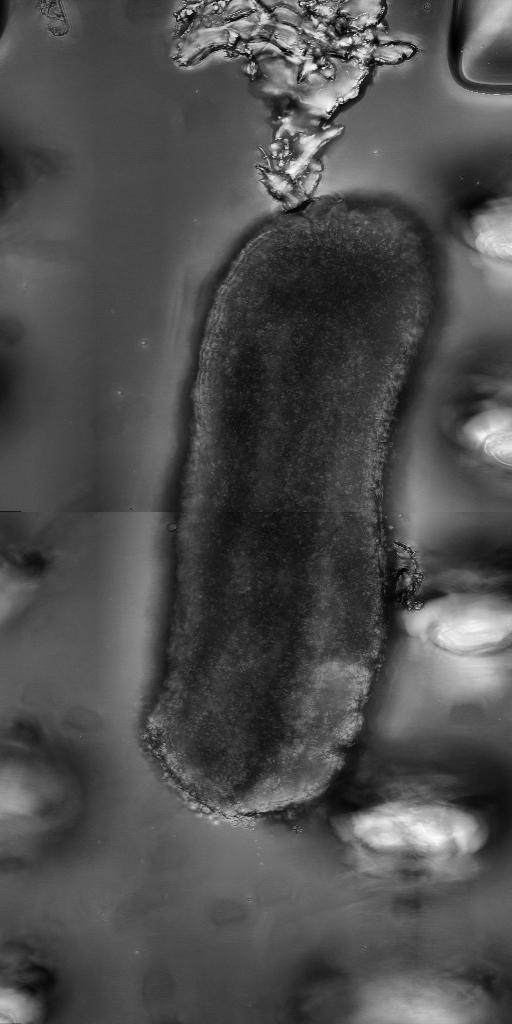
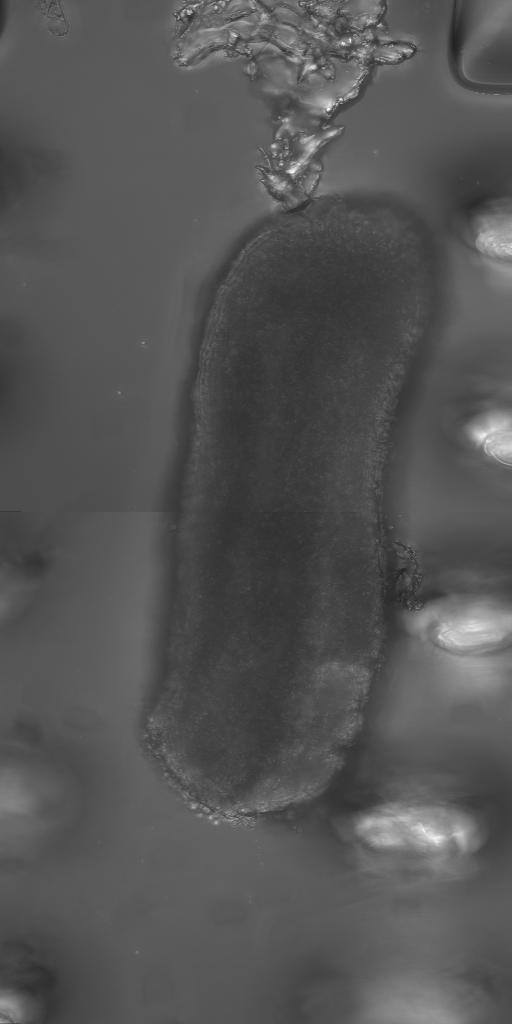
changes address review

diff --git a/tools/image_processing/yolo/adjust_save_images.py b/tools/image_processing/yolo/adjust_save_images.py
@@ -9,14 +9,14 @@ def apply_clahe(image):
     return exposure.equalize_adapthist(image, clip_limit=0.01)
 
 
-def process_images(input_folder, results_folder, clahe, convert_8bit):
+def process_images(input_folder, results_folder):
     # Create the main "results" directory
     results_folder = os.path.join(results_folder, 'jpegs')
     os.makedirs(results_folder, exist_ok=True)
 
     for root, _, files in os.walk(input_folder):
         for file in files:
-            if file.endswith('.tif'):
+            if file.endswith(('.tif', '.tiff')):
                 # Derive the relative path to maintain the directory structure
                 relative_path = os.path.relpath(root, input_folder)
                 target_folder = os.path.join(results_folder, relative_path)
@@ -24,32 +24,23 @@ def process_images(input_folder, results_folder, clahe, convert_8bit):
 
                 file_path = os.path.join(root, file)
                 image = imread(file_path)
-
-                # Apply CLAHE
-                if clahe:
-                    enhanced_image = apply_clahe(image)
-
-                # Convert to 8-bit
-                if convert_8bit:
-                    enhanced_image_8bit = img_as_ubyte(enhanced_image)
+                enhanced_image = img_as_ubyte(image)
 
                 # # Save as JPG
                 jpg_filename = os.path.splitext(file)[0] + '.jpg'
                 output_path = os.path.join(target_folder, jpg_filename)
-                imsave(output_path, enhanced_image_8bit)
+                imsave(output_path, enhanced_image)
 
 
 if __name__ == "__main__":
-    parser = argparse.ArgumentParser(description="Process .tif images with CLAHE and/or save as .jpg.")
+    parser = argparse.ArgumentParser(description="Process .tiff images with CLAHE and/or save as .jpg.")
     parser.add_argument("--input_folder",
                         type=str,
-                        help="Path to the input directory containing .tif files.")
+                        help="Path to the input directory containing .tiff files.")
     parser.add_argument("--results_folder",
                         type=str,
                         help="Path to the output directory where processed images will be saved.")
-    parser.add_argument("--clahe", action="store_true", help="Apply CLAHE to the images.")
-    parser.add_argument("--convert8bit", action="store_true", help="Convert images to 8-bit before saving.")
 
     args = parser.parse_args()
 
-    process_images(args.input_folder, args.results_folder, args.clahe, args.convert8bit)
+    process_images(args.input_folder, args.results_folder)

diff --git a/tools/image_processing/yolo/preprocessing.py b/tools/image_processing/yolo/preprocessing.py
@@ -43,7 +43,7 @@ def write_yolo_yaml(output_dir, meta_json):
         f.write("test: test\n")
         f.write("\n")
         f.write(f"nc: {meta['training_params']['num_class']}\n")
-        f.write(f"names: ['{meta['ds_name']}']\n")
+        f.write("names: ['dataset']\n")
 
 
 def main():
